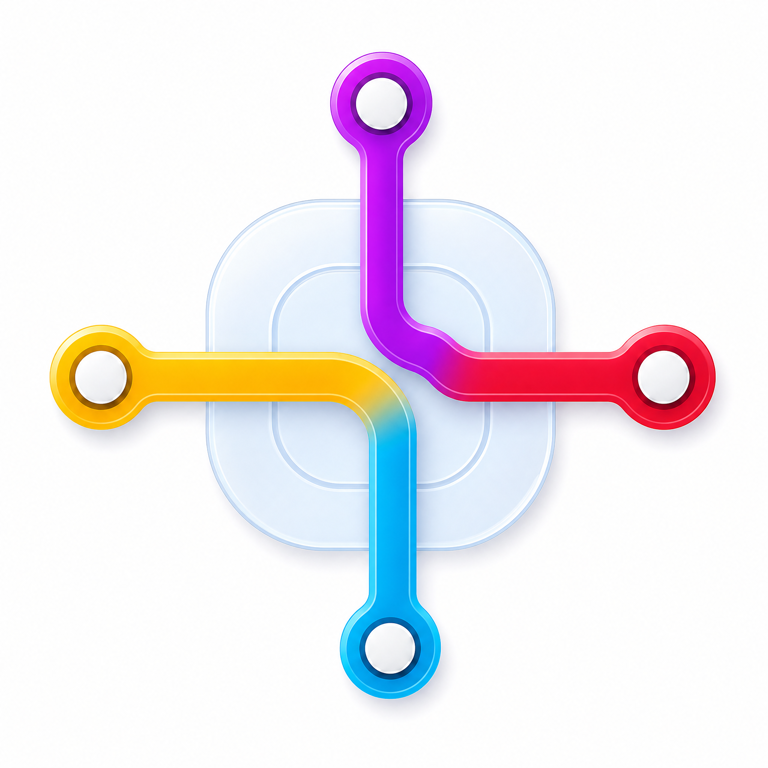
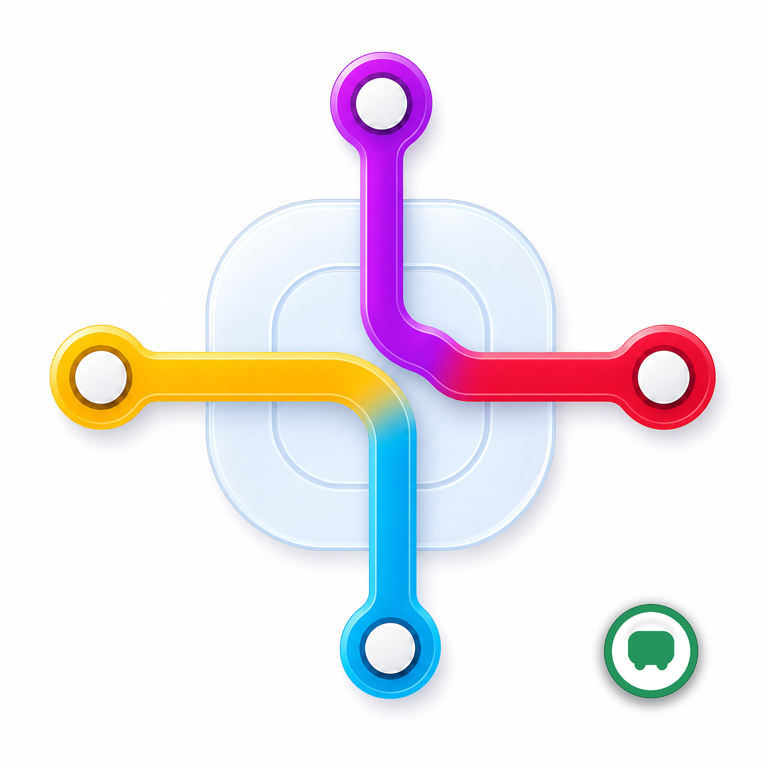
style: 角丸を全体的に拡大し、アイコンにバスのミニマルなピクトグラムを追加
- ボタン・トグル・チップ・カード類のborderRadiusを軒並み拡大し、
  よりなだらかな丸みのトーンに統一(primaryButton 15→24、routeCard 18→24、
  各種チップ・セグメント類も同様に増加)
- アプリアイコンに、既存の路線終端サークルと同じ視覚言語(白丸+細いカラー
  リング+光沢)でミニマルな単色バスピクトグラム(角丸長方形+車輪2つのみ)を
  右下の空きスペースに追加。地下鉄・バスの両方を表す構成に
  (favicon/splash/Android adaptive icon/PWA iconにも同一画像を反映)

🤖 Generated with [Claude Code](https://claude.com/claude-code)

Changed region(s): [[0.7812, 0.7812, 0.9375, 0.9375]]

diff --git a/app/(tabs)/index.tsx b/app/(tabs)/index.tsx
@@ -778,15 +778,15 @@ export default function HomeScreen() {
 const styles = StyleSheet.create({
   appText: { fontFamily: "NotoSansJP", fontWeight: "400", letterSpacing: 0 },
   safeArea: { flex: 1, backgroundColor: COLORS.canvas }, content: { padding: 20, paddingBottom: 42 },
-  topBar: { flexDirection: "row", alignItems: "center", justifyContent: "space-between" }, brandLockup: { flexDirection: "row", alignItems: "center", gap: 8 }, brandMark: { width: 34, height: 34, borderRadius: 11, overflow: "hidden", borderWidth: 1, borderColor: "rgba(18,117,187,0.28)", shadowColor: "#1B75BB", shadowOpacity: 0.16, shadowRadius: 7, shadowOffset: { width: 0, height: 3 }, elevation: 2 }, brandIcon: { width: "100%", height: "100%" }, brandName: { color: COLORS.ink, fontWeight: "800", fontSize: 14 }, topActions: { flexDirection: "row", alignItems: "center", gap: 7 }, cacheRefreshButton: { width: 32, height: 32, borderRadius: 12, alignItems: "center", justifyContent: "center", backgroundColor: "rgba(255,255,255,0.84)", borderWidth: 1, borderColor: "rgba(18,117,187,0.18)" }, offlineStatus: { flexDirection: "row", alignItems: "center", gap: 4 }, offlineText: { color: COLORS.muted, fontSize: 11, fontWeight: "700" },
+  topBar: { flexDirection: "row", alignItems: "center", justifyContent: "space-between" }, brandLockup: { flexDirection: "row", alignItems: "center", gap: 8 }, brandMark: { width: 34, height: 34, borderRadius: 17, overflow: "hidden", borderWidth: 1, borderColor: "rgba(18,117,187,0.28)", shadowColor: "#1B75BB", shadowOpacity: 0.16, shadowRadius: 7, shadowOffset: { width: 0, height: 3 }, elevation: 2 }, brandIcon: { width: "100%", height: "100%" }, brandName: { color: COLORS.ink, fontWeight: "800", fontSize: 14 }, topActions: { flexDirection: "row", alignItems: "center", gap: 7 }, cacheRefreshButton: { width: 32, height: 32, borderRadius: 16, alignItems: "center", justifyContent: "center", backgroundColor: "rgba(255,255,255,0.84)", borderWidth: 1, borderColor: "rgba(18,117,187,0.18)" }, offlineStatus: { flexDirection: "row", alignItems: "center", gap: 4 }, offlineText: { color: COLORS.muted, fontSize: 11, fontWeight: "700" },
   intro: { marginTop: 30, marginBottom: 22 }, introEyebrow: { color: COLORS.teal, fontSize: 13, fontWeight: "800" }, introTitle: { color: COLORS.ink, fontSize: 31, lineHeight: 39, fontWeight: "800", marginTop: 4, letterSpacing: -0.6 }, introHint: { color: COLORS.muted, fontSize: 13, lineHeight: 19, marginTop: 7 },
-  glassPanel: { backgroundColor: "rgba(255,255,255,0.82)", borderColor: "rgba(18,117,187,0.16)", shadowColor: "#1B75BB", shadowOpacity: 0.08, shadowRadius: 12, shadowOffset: { width: 0, height: 4 }, elevation: 2 }, routeCard: { position: "relative", borderWidth: 1, borderColor: COLORS.border, borderRadius: 18, backgroundColor: COLORS.surface, padding: 10 }, routeFields: { gap: 0 }, routeFieldRow: { minHeight: 60, flexDirection: "row", alignItems: "center" }, routeField: { flex: 1, minHeight: 60, flexDirection: "row", alignItems: "center", gap: 11, paddingHorizontal: 7 }, fieldInlineClear: { width: 34, height: 34, marginRight: 4, alignItems: "center", justifyContent: "center", borderRadius: 11, backgroundColor: "rgba(11,91,149,0.06)" }, routeFieldCopy: { flex: 1 }, routeLabel: { color: COLORS.muted, fontSize: 11, fontWeight: "700" }, routeValue: { color: COLORS.ink, fontSize: 17, fontWeight: "800", marginTop: 2 }, routePlaceholder: { color: COLORS.lightMuted, fontWeight: "600" }, marker: { width: 30, height: 30, borderRadius: 15, alignItems: "center", justifyContent: "center", borderWidth: 1, borderColor: COLORS.border, overflow: "hidden" }, originMarker: { backgroundColor: COLORS.surface }, destinationMarker: { backgroundColor: COLORS.surface }, markerInnerDot: { position: "absolute", top: 6, left: 6, width: 16, height: 16, borderRadius: 8 }, splitMarker: { borderColor: "transparent" }, markerDiagonalBase: { position: "absolute", top: 0, left: 0, width: 30, height: 30 }, markerDiagonalOverlay: { position: "absolute", top: 0, left: 0, width: 30, height: 30 }, markerIconBadge: { position: "absolute", top: 6, left: 6, width: 16, height: 16, borderRadius: 8, backgroundColor: COLORS.surface, alignItems: "center", justifyContent: "center", borderWidth: 1, borderColor: COLORS.border }, routeConnectorRow: { height: 8, paddingLeft: 21 }, routeConnector: { height: 8, borderLeftWidth: 2, borderLeftColor: "rgba(18,117,187,0.16)" }, swapButton: { position: "absolute", left: 17, top: 59, width: 30, height: 30, borderRadius: 15, alignItems: "center", justifyContent: "center", backgroundColor: "rgba(255,255,255,0.96)", borderWidth: 1, borderColor: "rgba(18,117,187,0.22)" },
-  departureRow: { marginTop: 13, minHeight: 58, flexDirection: "row", alignItems: "center", gap: 10, paddingHorizontal: 13, borderRadius: 16, backgroundColor: COLORS.surface, borderWidth: 1, borderColor: COLORS.border }, departureIcon: { width: 31, height: 31, borderRadius: 11, alignItems: "center", justifyContent: "center", backgroundColor: "rgba(31,150,210,0.11)", borderWidth: 1, borderColor: "rgba(31,150,210,0.18)" }, departureCopy: { flex: 1 }, departureLabel: { color: COLORS.muted, fontSize: 11, fontWeight: "700" }, departureValue: { color: COLORS.ink, fontSize: 14, fontWeight: "800", marginTop: 2 }, changeText: { color: COLORS.blue, fontSize: 12, fontWeight: "800" }, historyPanel: { marginTop: 13, borderRadius: 16, padding: 10 }, historyHeader: { flexDirection: "row", alignItems: "center", paddingHorizontal: 4, paddingBottom: 6 }, historyTitleWrap: { flexDirection: "row", alignItems: "center", gap: 6 }, historyTitle: { color: COLORS.ink, fontSize: 12, fontWeight: "800" }, historyRow: { minHeight: 48, flexDirection: "row", alignItems: "center", borderTopWidth: 1, borderTopColor: "rgba(18,117,187,0.09)" }, historyEntry: { flex: 1, minHeight: 48, flexDirection: "row", alignItems: "center", gap: 8, paddingHorizontal: 4 }, historyRouteIcon: { width: 24, height: 24, alignItems: "center", justifyContent: "center", borderRadius: 8, backgroundColor: "rgba(11,91,149,0.08)" }, historyCopy: { flex: 1 }, historyRoute: { color: COLORS.ink, fontSize: 13, fontWeight: "700" }, historyArrow: { color: COLORS.teal }, historyMeta: { color: COLORS.muted, fontSize: 10, marginTop: 1 }, historyDelete: { width: 34, height: 34, borderRadius: 12, alignItems: "center", justifyContent: "center" },
-  errorText: { color: COLORS.danger, marginTop: 12, fontSize: 12, fontWeight: "700" }, primaryButton: { minHeight: 56, borderRadius: 15, marginTop: 16, flexDirection: "row", alignItems: "center", justifyContent: "center", gap: 9, backgroundColor: COLORS.navy, shadowColor: "#1B75BB", shadowOpacity: 0.22, shadowRadius: 10, shadowOffset: { width: 0, height: 5 }, elevation: 3 }, primaryButtonLoading: { opacity: 0.78 }, searchIconTile: { width: 28, height: 28, borderRadius: 10, alignItems: "center", justifyContent: "center", backgroundColor: "#1B75BB", borderWidth: 1, borderColor: "rgba(245,196,0,0.72)" }, primaryButtonText: { color: COLORS.surface, fontSize: 16, fontWeight: "800" },
+  glassPanel: { backgroundColor: "rgba(255,255,255,0.82)", borderColor: "rgba(18,117,187,0.16)", shadowColor: "#1B75BB", shadowOpacity: 0.08, shadowRadius: 12, shadowOffset: { width: 0, height: 4 }, elevation: 2 }, routeCard: { position: "relative", borderWidth: 1, borderColor: COLORS.border, borderRadius: 24, backgroundColor: COLORS.surface, padding: 10 }, routeFields: { gap: 0 }, routeFieldRow: { minHeight: 60, flexDirection: "row", alignItems: "center" }, routeField: { flex: 1, minHeight: 60, flexDirection: "row", alignItems: "center", gap: 11, paddingHorizontal: 7 }, fieldInlineClear: { width: 34, height: 34, marginRight: 4, alignItems: "center", justifyContent: "center", borderRadius: 17, backgroundColor: "rgba(11,91,149,0.06)" }, routeFieldCopy: { flex: 1 }, routeLabel: { color: COLORS.muted, fontSize: 11, fontWeight: "700" }, routeValue: { color: COLORS.ink, fontSize: 17, fontWeight: "800", marginTop: 2 }, routePlaceholder: { color: COLORS.lightMuted, fontWeight: "600" }, marker: { width: 30, height: 30, borderRadius: 15, alignItems: "center", justifyContent: "center", borderWidth: 1, borderColor: COLORS.border, overflow: "hidden" }, originMarker: { backgroundColor: COLORS.surface }, destinationMarker: { backgroundColor: COLORS.surface }, markerInnerDot: { position: "absolute", top: 6, left: 6, width: 16, height: 16, borderRadius: 8 }, splitMarker: { borderColor: "transparent" }, markerDiagonalBase: { position: "absolute", top: 0, left: 0, width: 30, height: 30 }, markerDiagonalOverlay: { position: "absolute", top: 0, left: 0, width: 30, height: 30 }, markerIconBadge: { position: "absolute", top: 6, left: 6, width: 16, height: 16, borderRadius: 8, backgroundColor: COLORS.surface, alignItems: "center", justifyContent: "center", borderWidth: 1, borderColor: COLORS.border }, routeConnectorRow: { height: 8, paddingLeft: 21 }, routeConnector: { height: 8, borderLeftWidth: 2, borderLeftColor: "rgba(18,117,187,0.16)" }, swapButton: { position: "absolute", left: 17, top: 59, width: 30, height: 30, borderRadius: 15, alignItems: "center", justifyContent: "center", backgroundColor: "rgba(255,255,255,0.96)", borderWidth: 1, borderColor: "rgba(18,117,187,0.22)" },
+  departureRow: { marginTop: 13, minHeight: 58, flexDirection: "row", alignItems: "center", gap: 10, paddingHorizontal: 13, borderRadius: 22, backgroundColor: COLORS.surface, borderWidth: 1, borderColor: COLORS.border }, departureIcon: { width: 31, height: 31, borderRadius: 15, alignItems: "center", justifyContent: "center", backgroundColor: "rgba(31,150,210,0.11)", borderWidth: 1, borderColor: "rgba(31,150,210,0.18)" }, departureCopy: { flex: 1 }, departureLabel: { color: COLORS.muted, fontSize: 11, fontWeight: "700" }, departureValue: { color: COLORS.ink, fontSize: 14, fontWeight: "800", marginTop: 2 }, changeText: { color: COLORS.blue, fontSize: 12, fontWeight: "800" }, historyPanel: { marginTop: 13, borderRadius: 20, padding: 10 }, historyHeader: { flexDirection: "row", alignItems: "center", paddingHorizontal: 4, paddingBottom: 6 }, historyTitleWrap: { flexDirection: "row", alignItems: "center", gap: 6 }, historyTitle: { color: COLORS.ink, fontSize: 12, fontWeight: "800" }, historyRow: { minHeight: 48, flexDirection: "row", alignItems: "center", borderTopWidth: 1, borderTopColor: "rgba(18,117,187,0.09)" }, historyEntry: { flex: 1, minHeight: 48, flexDirection: "row", alignItems: "center", gap: 8, paddingHorizontal: 4 }, historyRouteIcon: { width: 24, height: 24, alignItems: "center", justifyContent: "center", borderRadius: 12, backgroundColor: "rgba(11,91,149,0.08)" }, historyCopy: { flex: 1 }, historyRoute: { color: COLORS.ink, fontSize: 13, fontWeight: "700" }, historyArrow: { color: COLORS.teal }, historyMeta: { color: COLORS.muted, fontSize: 10, marginTop: 1 }, historyDelete: { width: 34, height: 34, borderRadius: 17, alignItems: "center", justifyContent: "center" },
+  errorText: { color: COLORS.danger, marginTop: 12, fontSize: 12, fontWeight: "700" }, primaryButton: { minHeight: 56, borderRadius: 24, marginTop: 16, flexDirection: "row", alignItems: "center", justifyContent: "center", gap: 9, backgroundColor: COLORS.navy, shadowColor: "#1B75BB", shadowOpacity: 0.22, shadowRadius: 10, shadowOffset: { width: 0, height: 5 }, elevation: 3 }, primaryButtonLoading: { opacity: 0.78 }, searchIconTile: { width: 28, height: 28, borderRadius: 14, alignItems: "center", justifyContent: "center", backgroundColor: "#1B75BB", borderWidth: 1, borderColor: "rgba(245,196,0,0.72)" }, primaryButtonText: { color: COLORS.surface, fontSize: 16, fontWeight: "800" },
   searchHint: { marginTop: 14, color: COLORS.muted, fontSize: 11, textAlign: "center" },
-  resultArea: { marginTop: 28 }, routePreferenceGroup: { flexDirection: "row", padding: 3, borderRadius: 16, marginBottom: 15 }, routePreferenceButton: { flex: 1, minHeight: 72, alignItems: "center", justifyContent: "center", paddingHorizontal: 6, borderRadius: 13 }, routePreferenceButtonActive: { backgroundColor: "rgba(11,91,149,0.09)", borderWidth: 1, borderColor: "rgba(11,91,149,0.24)" }, routePreferenceLabel: { color: COLORS.muted, fontSize: 13, fontWeight: "800" }, routePreferenceLabelActive: { color: COLORS.navy }, routePreferenceMeta: { color: COLORS.ink, fontSize: 12, fontWeight: "700", marginTop: 2 }, routePreferenceMetaActive: { color: COLORS.navy }, routePreferenceHint: { color: COLORS.muted, fontSize: 9, marginTop: 2 }, routePreferenceHintActive: { color: COLORS.teal }, alternativeGroup: { flexDirection: "row", gap: 8, marginBottom: 12 }, alternativeChip: { flex: 1, minHeight: 40, alignItems: "center", justifyContent: "center", borderRadius: 12, borderWidth: 1, borderColor: COLORS.border, backgroundColor: COLORS.surface }, alternativeChipActive: { borderColor: COLORS.navy, backgroundColor: "rgba(11,91,149,0.08)" }, alternativeChipText: { color: COLORS.muted, fontSize: 12, fontWeight: "700" }, alternativeChipTextActive: { color: COLORS.navy }, resultOverline: { color: "#5E5144", fontSize: 12, fontWeight: "800", marginBottom: 9 }, resultHero: { flexDirection: "row", alignItems: "center", justifyContent: "space-between", paddingHorizontal: 4 }, resultDeparture: { color: COLORS.ink, fontSize: 29, lineHeight: 33, fontWeight: "800", letterSpacing: -0.7 }, resultArrival: { color: COLORS.ink, fontSize: 29, lineHeight: 33, fontWeight: "800", textAlign: "right", letterSpacing: -0.7 }, resultPlace: { color: COLORS.muted, fontSize: 13, fontWeight: "700", marginTop: 3 }, resultArrowWrap: { alignItems: "center", gap: 1 }, resultDuration: { color: COLORS.navy, fontSize: 13, fontWeight: "800" }, resultTransfer: { color: COLORS.muted, fontSize: 11, fontWeight: "700" }, resultArrivalWrap: { alignItems: "flex-end" }, routeSteps: { marginTop: 18, gap: 8 }, routeLegSummary: { minHeight: 72, flexDirection: "row", alignItems: "center", gap: 10, padding: 12, borderRadius: 16, backgroundColor: COLORS.surface, borderWidth: 1, borderColor: COLORS.border }, routeLegColor: { width: 4, alignSelf: "stretch", borderRadius: 3 }, routeLegCopy: { flex: 1 }, routeLegHeading: { flexDirection: "row", alignItems: "center", gap: 8 }, linePill: { alignSelf: "flex-start", paddingHorizontal: 8, paddingVertical: 6, borderRadius: 8 }, linePillText: { fontSize: 11, fontWeight: "800" }, routeLegDirection: { flex: 1, color: COLORS.ink, fontSize: 14, fontWeight: "800" }, routeLegMeta: { color: COLORS.muted, fontSize: 11, marginTop: 5 }, routeTransferSummary: { minHeight: 38, flexDirection: "row", alignItems: "center", gap: 7, paddingHorizontal: 12, backgroundColor: COLORS.surface, borderLeftWidth: 1, borderRightWidth: 1, borderColor: COLORS.border }, routeTransferText: { flex: 1, color: COLORS.muted, fontSize: 11, fontWeight: "700" }, walkLegSummary: { minHeight: 44, flexDirection: "row", alignItems: "center", gap: 9, paddingHorizontal: 14, paddingVertical: 10, borderRadius: 14, backgroundColor: "rgba(36,110,141,0.06)", borderWidth: 1, borderColor: "rgba(36,110,141,0.18)", borderStyle: "dashed" }, walkLegText: { flex: 1, color: COLORS.teal, fontSize: 12, fontWeight: "700" }, detailToggle: { minHeight: 48, flexDirection: "row", alignItems: "center", justifyContent: "space-between", paddingHorizontal: 4, marginTop: 8 }, detailToggleText: { color: COLORS.navy, fontSize: 13, fontWeight: "800" },
+  resultArea: { marginTop: 28 }, routePreferenceGroup: { flexDirection: "row", padding: 3, borderRadius: 20, marginBottom: 15 }, routePreferenceButton: { flex: 1, minHeight: 72, alignItems: "center", justifyContent: "center", paddingHorizontal: 6, borderRadius: 17 }, routePreferenceButtonActive: { backgroundColor: "rgba(11,91,149,0.09)", borderWidth: 1, borderColor: "rgba(11,91,149,0.24)" }, routePreferenceLabel: { color: COLORS.muted, fontSize: 13, fontWeight: "800" }, routePreferenceLabelActive: { color: COLORS.navy }, routePreferenceMeta: { color: COLORS.ink, fontSize: 12, fontWeight: "700", marginTop: 2 }, routePreferenceMetaActive: { color: COLORS.navy }, routePreferenceHint: { color: COLORS.muted, fontSize: 9, marginTop: 2 }, routePreferenceHintActive: { color: COLORS.teal }, alternativeGroup: { flexDirection: "row", gap: 8, marginBottom: 12 }, alternativeChip: { flex: 1, minHeight: 40, alignItems: "center", justifyContent: "center", borderRadius: 18, borderWidth: 1, borderColor: COLORS.border, backgroundColor: COLORS.surface }, alternativeChipActive: { borderColor: COLORS.navy, backgroundColor: "rgba(11,91,149,0.08)" }, alternativeChipText: { color: COLORS.muted, fontSize: 12, fontWeight: "700" }, alternativeChipTextActive: { color: COLORS.navy }, resultOverline: { color: "#5E5144", fontSize: 12, fontWeight: "800", marginBottom: 9 }, resultHero: { flexDirection: "row", alignItems: "center", justifyContent: "space-between", paddingHorizontal: 4 }, resultDeparture: { color: COLORS.ink, fontSize: 29, lineHeight: 33, fontWeight: "800", letterSpacing: -0.7 }, resultArrival: { color: COLORS.ink, fontSize: 29, lineHeight: 33, fontWeight: "800", textAlign: "right", letterSpacing: -0.7 }, resultPlace: { color: COLORS.muted, fontSize: 13, fontWeight: "700", marginTop: 3 }, resultArrowWrap: { alignItems: "center", gap: 1 }, resultDuration: { color: COLORS.navy, fontSize: 13, fontWeight: "800" }, resultTransfer: { color: COLORS.muted, fontSize: 11, fontWeight: "700" }, resultArrivalWrap: { alignItems: "flex-end" }, routeSteps: { marginTop: 18, gap: 8 }, routeLegSummary: { minHeight: 72, flexDirection: "row", alignItems: "center", gap: 10, padding: 12, borderRadius: 20, backgroundColor: COLORS.surface, borderWidth: 1, borderColor: COLORS.border }, routeLegColor: { width: 4, alignSelf: "stretch", borderRadius: 3 }, routeLegCopy: { flex: 1 }, routeLegHeading: { flexDirection: "row", alignItems: "center", gap: 8 }, linePill: { alignSelf: "flex-start", paddingHorizontal: 8, paddingVertical: 6, borderRadius: 12 }, linePillText: { fontSize: 11, fontWeight: "800" }, routeLegDirection: { flex: 1, color: COLORS.ink, fontSize: 14, fontWeight: "800" }, routeLegMeta: { color: COLORS.muted, fontSize: 11, marginTop: 5 }, routeTransferSummary: { minHeight: 38, flexDirection: "row", alignItems: "center", gap: 7, paddingHorizontal: 12, backgroundColor: COLORS.surface, borderLeftWidth: 1, borderRightWidth: 1, borderColor: COLORS.border }, routeTransferText: { flex: 1, color: COLORS.muted, fontSize: 11, fontWeight: "700" }, walkLegSummary: { minHeight: 44, flexDirection: "row", alignItems: "center", gap: 9, paddingHorizontal: 14, paddingVertical: 10, borderRadius: 18, backgroundColor: "rgba(36,110,141,0.06)", borderWidth: 1, borderColor: "rgba(36,110,141,0.18)", borderStyle: "dashed" }, walkLegText: { flex: 1, color: COLORS.teal, fontSize: 12, fontWeight: "700" }, detailToggle: { minHeight: 48, flexDirection: "row", alignItems: "center", justifyContent: "space-between", paddingHorizontal: 4, marginTop: 8 }, detailToggleText: { color: COLORS.navy, fontSize: 13, fontWeight: "800" },
   detailList: { borderTopWidth: 1, borderTopColor: COLORS.border, paddingTop: 12 }, detailLeg: { flexDirection: "row", minHeight: 72, gap: 9 }, detailLine: { width: 4, borderRadius: 2 }, detailLineWalk: { backgroundColor: COLORS.lightMuted }, detailTimes: { justifyContent: "space-between", paddingVertical: 1 }, detailTime: { color: COLORS.ink, fontSize: 13, fontWeight: "800" }, detailCopy: { flex: 1, justifyContent: "space-between", paddingBottom: 2 }, detailStation: { color: COLORS.ink, fontSize: 14, fontWeight: "800" }, detailDirection: { color: COLORS.muted, fontSize: 11 }, detailTransfer: { flexDirection: "row", alignItems: "center", gap: 8, marginVertical: 8 }, detailConnector: { width: 4, height: 14, borderRadius: 2, backgroundColor: COLORS.amber }, detailTransferText: { color: "#81510D", fontSize: 11, fontWeight: "700" }, detailFooter: { marginTop: 10, paddingTop: 12, borderTopWidth: 1, borderTopColor: COLORS.border, flexDirection: "row", justifyContent: "space-between" }, detailFooterText: { color: COLORS.muted, fontSize: 11, fontWeight: "700" },
-  dataRow: { marginTop: 27, minHeight: 46, flexDirection: "row", alignItems: "center", gap: 8 }, dataRowText: { flex: 1, color: COLORS.muted, fontSize: 12, fontWeight: "700" }, dataDetail: { paddingTop: 3, paddingBottom: 3 }, dataRevisionText: { color: COLORS.navy, fontSize: 10, lineHeight: 15, marginVertical: 8, fontWeight: "700" }, dataPrivacyText: { color: COLORS.muted, fontSize: 10, lineHeight: 15 }, dialogBackdrop: { flex: 1, alignItems: "center", justifyContent: "center", padding: 24, backgroundColor: "rgba(18,27,35,0.28)" }, cacheDialog: { width: "100%", maxWidth: 360, padding: 22, borderRadius: 22, alignItems: "center", backgroundColor: "#FFFFFF", borderWidth: 1, borderColor: "rgba(18,117,187,0.16)", shadowColor: "#0B5B95", shadowOpacity: 0.18, shadowRadius: 24, shadowOffset: { width: 0, height: 10 }, elevation: 8 }, cacheDialogIcon: { width: 44, height: 44, borderRadius: 15, alignItems: "center", justifyContent: "center", backgroundColor: "rgba(11,91,149,0.09)" }, cacheDialogTitle: { color: COLORS.ink, fontSize: 18, fontWeight: "800", marginTop: 14 }, cacheDialogText: { color: COLORS.muted, fontSize: 13, lineHeight: 20, textAlign: "center", marginTop: 8 }, cacheDialogHint: { color: COLORS.lightMuted, fontSize: 11, lineHeight: 17, textAlign: "center", marginTop: 5 }, cacheDialogActions: { width: "100%", flexDirection: "row", gap: 9, marginTop: 21 }, cacheDialogCancel: { flex: 1, minHeight: 46, alignItems: "center", justifyContent: "center", borderRadius: 13, backgroundColor: "#FFFFFF", borderWidth: 1, borderColor: COLORS.border }, cacheDialogCancelText: { color: COLORS.muted, fontSize: 13, fontWeight: "800" }, cacheDialogConfirm: { flex: 1.35, minHeight: 46, alignItems: "center", justifyContent: "center", borderRadius: 13, backgroundColor: COLORS.navy }, cacheDialogConfirmDisabled: { opacity: 0.7 }, cacheDialogConfirmText: { color: "#FFFFFF", fontSize: 13, fontWeight: "800" },
-  sheetScreen: { flex: 1, backgroundColor: COLORS.canvas }, sheetHeader: { flexDirection: "row", alignItems: "center", justifyContent: "space-between", paddingHorizontal: 20, paddingTop: 14, paddingBottom: 17, backgroundColor: COLORS.surface }, sheetOverline: { color: COLORS.teal, fontSize: 11, fontWeight: "800" }, sheetTitle: { color: COLORS.ink, fontSize: 24, fontWeight: "800", marginTop: 3 }, sheetClose: { width: 38, height: 38, borderRadius: 19, alignItems: "center", justifyContent: "center", backgroundColor: COLORS.elevated }, sheetHeaderActions: { flexDirection: "row", alignItems: "center", gap: 8 }, stationKindSegmented: { flexDirection: "row", padding: 3, borderRadius: 16, backgroundColor: "rgba(11,91,149,0.07)", borderWidth: 1, borderColor: "rgba(11,91,149,0.16)" }, stationKindSegment: { width: 32, height: 32, borderRadius: 13, alignItems: "center", justifyContent: "center" }, stationKindSegmentActive: { backgroundColor: COLORS.surface, borderWidth: 1, borderColor: "rgba(11,91,149,0.28)" }, stationSearch: { margin: 16, minHeight: 50, flexDirection: "row", alignItems: "center", gap: 8, paddingHorizontal: 13, borderRadius: 15, backgroundColor: COLORS.surface, borderWidth: 1, borderColor: COLORS.border }, stationSearchInput: { flex: 1, color: COLORS.ink, fontFamily: "NotoSansJP", fontSize: 15, paddingVertical: 9 }, lineFilterScroll: { height: 42, flexShrink: 0, marginBottom: 8 }, lineFilterContent: { paddingHorizontal: 16, gap: 8 }, lineFilterChip: { minHeight: 32, flexDirection: "row", alignItems: "center", gap: 5, paddingHorizontal: 10, borderRadius: 12, borderWidth: 1, borderColor: COLORS.border, backgroundColor: COLORS.surface }, lineFilterChipActive: { borderColor: COLORS.navy, backgroundColor: "rgba(11,91,149,0.08)" }, lineFilterDot: { width: 7, height: 7, borderRadius: 4 }, lineFilterText: { color: COLORS.muted, fontSize: 11, fontWeight: "700" }, lineFilterTextActive: { color: COLORS.navy }, stationCount: { color: COLORS.muted, marginHorizontal: 20, marginBottom: 7, fontSize: 12 }, stationList: { paddingHorizontal: 16, paddingBottom: 28 }, stationOption: { minHeight: 55, flexDirection: "row", alignItems: "center", gap: 10, paddingHorizontal: 12, backgroundColor: COLORS.surface, borderBottomWidth: 1, borderBottomColor: COLORS.border }, stationOptionDot: { width: 8, height: 8, borderRadius: 4, backgroundColor: COLORS.teal }, stationOptionText: { flex: 1, color: COLORS.ink, fontSize: 16, fontWeight: "700" }, emptyStationText: { color: COLORS.muted, textAlign: "center", padding: 30 },
-  nowButton: { alignSelf: "flex-start", margin: 20, marginBottom: 7, flexDirection: "row", alignItems: "center", gap: 7, paddingHorizontal: 12, paddingVertical: 9, borderRadius: 12, backgroundColor: COLORS.surface, borderWidth: 1, borderColor: COLORS.border }, nowButtonText: { color: COLORS.muted, fontSize: 13, fontWeight: "800" }, optionSection: { marginHorizontal: 20, marginTop: 18 }, optionHeading: { flexDirection: "row", justifyContent: "space-between", alignItems: "center" }, optionLabel: { color: COLORS.ink, fontSize: 13, fontWeight: "800" }, autoText: { color: COLORS.muted, fontSize: 11, fontWeight: "800" }, optionInput: { minHeight: 50, marginTop: 9, flexDirection: "row", alignItems: "center", gap: 9, paddingHorizontal: 13, borderRadius: 14, backgroundColor: COLORS.surface, borderWidth: 1, borderColor: COLORS.border }, optionTextInput: { flex: 1, color: COLORS.ink, fontFamily: "NotoSansJP", fontSize: 15, fontWeight: "700", paddingVertical: 8 }, segmented: { marginTop: 9, padding: 3, flexDirection: "row", borderRadius: 14, backgroundColor: COLORS.surface, borderWidth: 1, borderColor: COLORS.border }, segment: { flex: 1, alignItems: "center", paddingVertical: 10, borderRadius: 11 }, segmentActive: { backgroundColor: COLORS.surface, borderWidth: 1, borderColor: COLORS.border }, segmentText: { color: COLORS.muted, fontSize: 13, fontWeight: "700" }, segmentTextActive: { color: COLORS.navy }, optionHint: { color: COLORS.muted, fontSize: 11, lineHeight: 16, marginTop: 8 }, applyButton: { minHeight: 54, marginHorizontal: 20, marginTop: 29, alignItems: "center", justifyContent: "center", borderRadius: 15, backgroundColor: COLORS.navy }, applyButtonText: { color: COLORS.surface, fontSize: 16, fontWeight: "800" },
+  dataRow: { marginTop: 27, minHeight: 46, flexDirection: "row", alignItems: "center", gap: 8 }, dataRowText: { flex: 1, color: COLORS.muted, fontSize: 12, fontWeight: "700" }, dataDetail: { paddingTop: 3, paddingBottom: 3 }, dataRevisionText: { color: COLORS.navy, fontSize: 10, lineHeight: 15, marginVertical: 8, fontWeight: "700" }, dataPrivacyText: { color: COLORS.muted, fontSize: 10, lineHeight: 15 }, dialogBackdrop: { flex: 1, alignItems: "center", justifyContent: "center", padding: 24, backgroundColor: "rgba(18,27,35,0.28)" }, cacheDialog: { width: "100%", maxWidth: 360, padding: 22, borderRadius: 28, alignItems: "center", backgroundColor: "#FFFFFF", borderWidth: 1, borderColor: "rgba(18,117,187,0.16)", shadowColor: "#0B5B95", shadowOpacity: 0.18, shadowRadius: 24, shadowOffset: { width: 0, height: 10 }, elevation: 8 }, cacheDialogIcon: { width: 44, height: 44, borderRadius: 20, alignItems: "center", justifyContent: "center", backgroundColor: "rgba(11,91,149,0.09)" }, cacheDialogTitle: { color: COLORS.ink, fontSize: 18, fontWeight: "800", marginTop: 14 }, cacheDialogText: { color: COLORS.muted, fontSize: 13, lineHeight: 20, textAlign: "center", marginTop: 8 }, cacheDialogHint: { color: COLORS.lightMuted, fontSize: 11, lineHeight: 17, textAlign: "center", marginTop: 5 }, cacheDialogActions: { width: "100%", flexDirection: "row", gap: 9, marginTop: 21 }, cacheDialogCancel: { flex: 1, minHeight: 46, alignItems: "center", justifyContent: "center", borderRadius: 18, backgroundColor: "#FFFFFF", borderWidth: 1, borderColor: COLORS.border }, cacheDialogCancelText: { color: COLORS.muted, fontSize: 13, fontWeight: "800" }, cacheDialogConfirm: { flex: 1.35, minHeight: 46, alignItems: "center", justifyContent: "center", borderRadius: 18, backgroundColor: COLORS.navy }, cacheDialogConfirmDisabled: { opacity: 0.7 }, cacheDialogConfirmText: { color: "#FFFFFF", fontSize: 13, fontWeight: "800" },
+  sheetScreen: { flex: 1, backgroundColor: COLORS.canvas }, sheetHeader: { flexDirection: "row", alignItems: "center", justifyContent: "space-between", paddingHorizontal: 20, paddingTop: 14, paddingBottom: 17, backgroundColor: COLORS.surface }, sheetOverline: { color: COLORS.teal, fontSize: 11, fontWeight: "800" }, sheetTitle: { color: COLORS.ink, fontSize: 24, fontWeight: "800", marginTop: 3 }, sheetClose: { width: 38, height: 38, borderRadius: 19, alignItems: "center", justifyContent: "center", backgroundColor: COLORS.elevated }, sheetHeaderActions: { flexDirection: "row", alignItems: "center", gap: 8 }, stationKindSegmented: { flexDirection: "row", padding: 3, borderRadius: 19, backgroundColor: "rgba(11,91,149,0.07)", borderWidth: 1, borderColor: "rgba(11,91,149,0.16)" }, stationKindSegment: { width: 32, height: 32, borderRadius: 16, alignItems: "center", justifyContent: "center" }, stationKindSegmentActive: { backgroundColor: COLORS.surface, borderWidth: 1, borderColor: "rgba(11,91,149,0.28)" }, stationSearch: { margin: 16, minHeight: 50, flexDirection: "row", alignItems: "center", gap: 8, paddingHorizontal: 13, borderRadius: 20, backgroundColor: COLORS.surface, borderWidth: 1, borderColor: COLORS.border }, stationSearchInput: { flex: 1, color: COLORS.ink, fontFamily: "NotoSansJP", fontSize: 15, paddingVertical: 9 }, lineFilterScroll: { height: 42, flexShrink: 0, marginBottom: 8 }, lineFilterContent: { paddingHorizontal: 16, gap: 8 }, lineFilterChip: { minHeight: 32, flexDirection: "row", alignItems: "center", gap: 5, paddingHorizontal: 10, borderRadius: 16, borderWidth: 1, borderColor: COLORS.border, backgroundColor: COLORS.surface }, lineFilterChipActive: { borderColor: COLORS.navy, backgroundColor: "rgba(11,91,149,0.08)" }, lineFilterDot: { width: 7, height: 7, borderRadius: 4 }, lineFilterText: { color: COLORS.muted, fontSize: 11, fontWeight: "700" }, lineFilterTextActive: { color: COLORS.navy }, stationCount: { color: COLORS.muted, marginHorizontal: 20, marginBottom: 7, fontSize: 12 }, stationList: { paddingHorizontal: 16, paddingBottom: 28 }, stationOption: { minHeight: 55, flexDirection: "row", alignItems: "center", gap: 10, paddingHorizontal: 12, backgroundColor: COLORS.surface, borderBottomWidth: 1, borderBottomColor: COLORS.border }, stationOptionDot: { width: 8, height: 8, borderRadius: 4, backgroundColor: COLORS.teal }, stationOptionText: { flex: 1, color: COLORS.ink, fontSize: 16, fontWeight: "700" }, emptyStationText: { color: COLORS.muted, textAlign: "center", padding: 30 },
+  nowButton: { alignSelf: "flex-start", margin: 20, marginBottom: 7, flexDirection: "row", alignItems: "center", gap: 7, paddingHorizontal: 12, paddingVertical: 9, borderRadius: 16, backgroundColor: COLORS.surface, borderWidth: 1, borderColor: COLORS.border }, nowButtonText: { color: COLORS.muted, fontSize: 13, fontWeight: "800" }, optionSection: { marginHorizontal: 20, marginTop: 18 }, optionHeading: { flexDirection: "row", justifyContent: "space-between", alignItems: "center" }, optionLabel: { color: COLORS.ink, fontSize: 13, fontWeight: "800" }, autoText: { color: COLORS.muted, fontSize: 11, fontWeight: "800" }, optionInput: { minHeight: 50, marginTop: 9, flexDirection: "row", alignItems: "center", gap: 9, paddingHorizontal: 13, borderRadius: 18, backgroundColor: COLORS.surface, borderWidth: 1, borderColor: COLORS.border }, optionTextInput: { flex: 1, color: COLORS.ink, fontFamily: "NotoSansJP", fontSize: 15, fontWeight: "700", paddingVertical: 8 }, segmented: { marginTop: 9, padding: 3, flexDirection: "row", borderRadius: 18, backgroundColor: COLORS.surface, borderWidth: 1, borderColor: COLORS.border }, segment: { flex: 1, alignItems: "center", paddingVertical: 10, borderRadius: 15 }, segmentActive: { backgroundColor: COLORS.surface, borderWidth: 1, borderColor: COLORS.border }, segmentText: { color: COLORS.muted, fontSize: 13, fontWeight: "700" }, segmentTextActive: { color: COLORS.navy }, optionHint: { color: COLORS.muted, fontSize: 11, lineHeight: 16, marginTop: 8 }, applyButton: { minHeight: 54, marginHorizontal: 20, marginTop: 29, alignItems: "center", justifyContent: "center", borderRadius: 24, backgroundColor: COLORS.navy }, applyButtonText: { color: COLORS.surface, fontSize: 16, fontWeight: "800" },
 });
